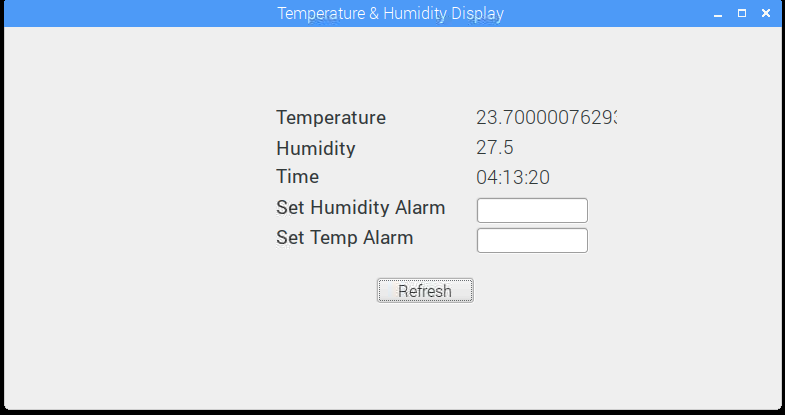
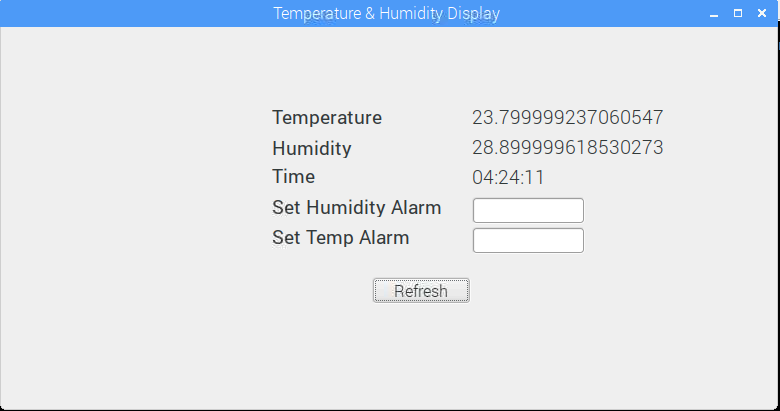
updating values and the layout

diff --git a/Projects/Project_1/project1_interface.py b/Projects/Project_1/project1_interface.py
@@ -61,13 +61,13 @@ class Ui_DisplayWindow(object):
         self.Humidity_Label.setFont(font)
         self.Humidity_Label.setObjectName(_fromUtf8("Humidity_Label"))
         self.Humidity_Value = QtGui.QLabel(self.centralwidget)
-        self.Humidity_Value.setGeometry(QtCore.QRect(470, 110, 141, 20))
+        self.Humidity_Value.setGeometry(QtCore.QRect(470, 110, 281, 20))
         font = QtGui.QFont()
         font.setPointSize(14)
         self.Humidity_Value.setFont(font)
         self.Humidity_Value.setObjectName(_fromUtf8("Humidity_Value"))
         self.Temperature_Value = QtGui.QLabel(self.centralwidget)
-        self.Temperature_Value.setGeometry(QtCore.QRect(470, 80, 141, 20))
+        self.Temperature_Value.setGeometry(QtCore.QRect(470, 80, 271, 20))
         font = QtGui.QFont()
         font.setPointSize(14)
         self.Temperature_Value.setFont(font)
